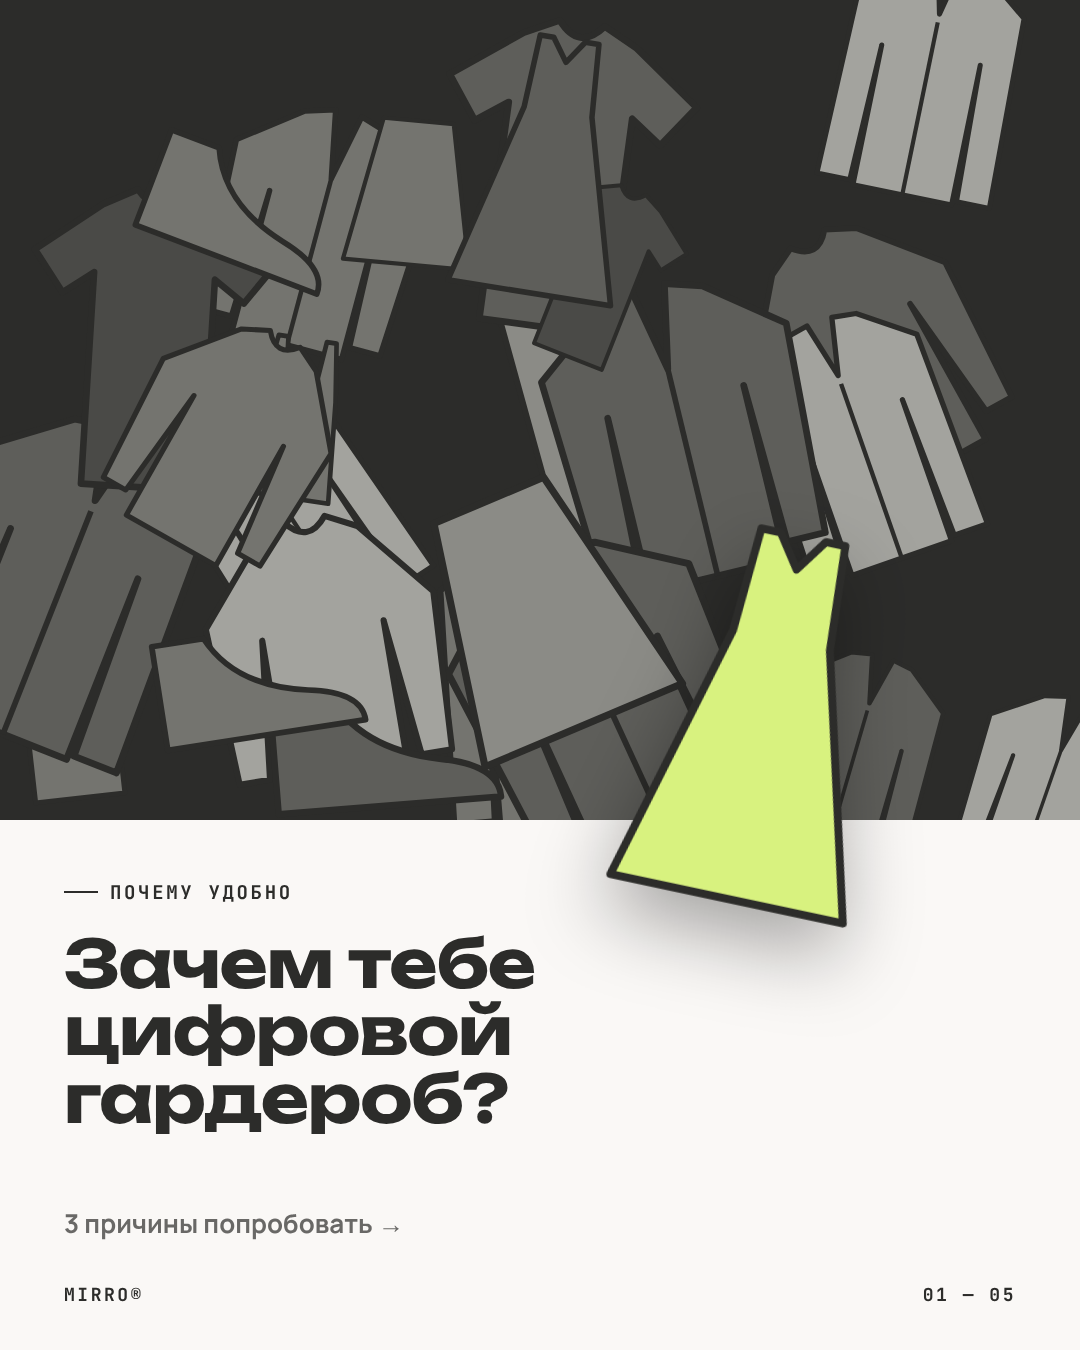
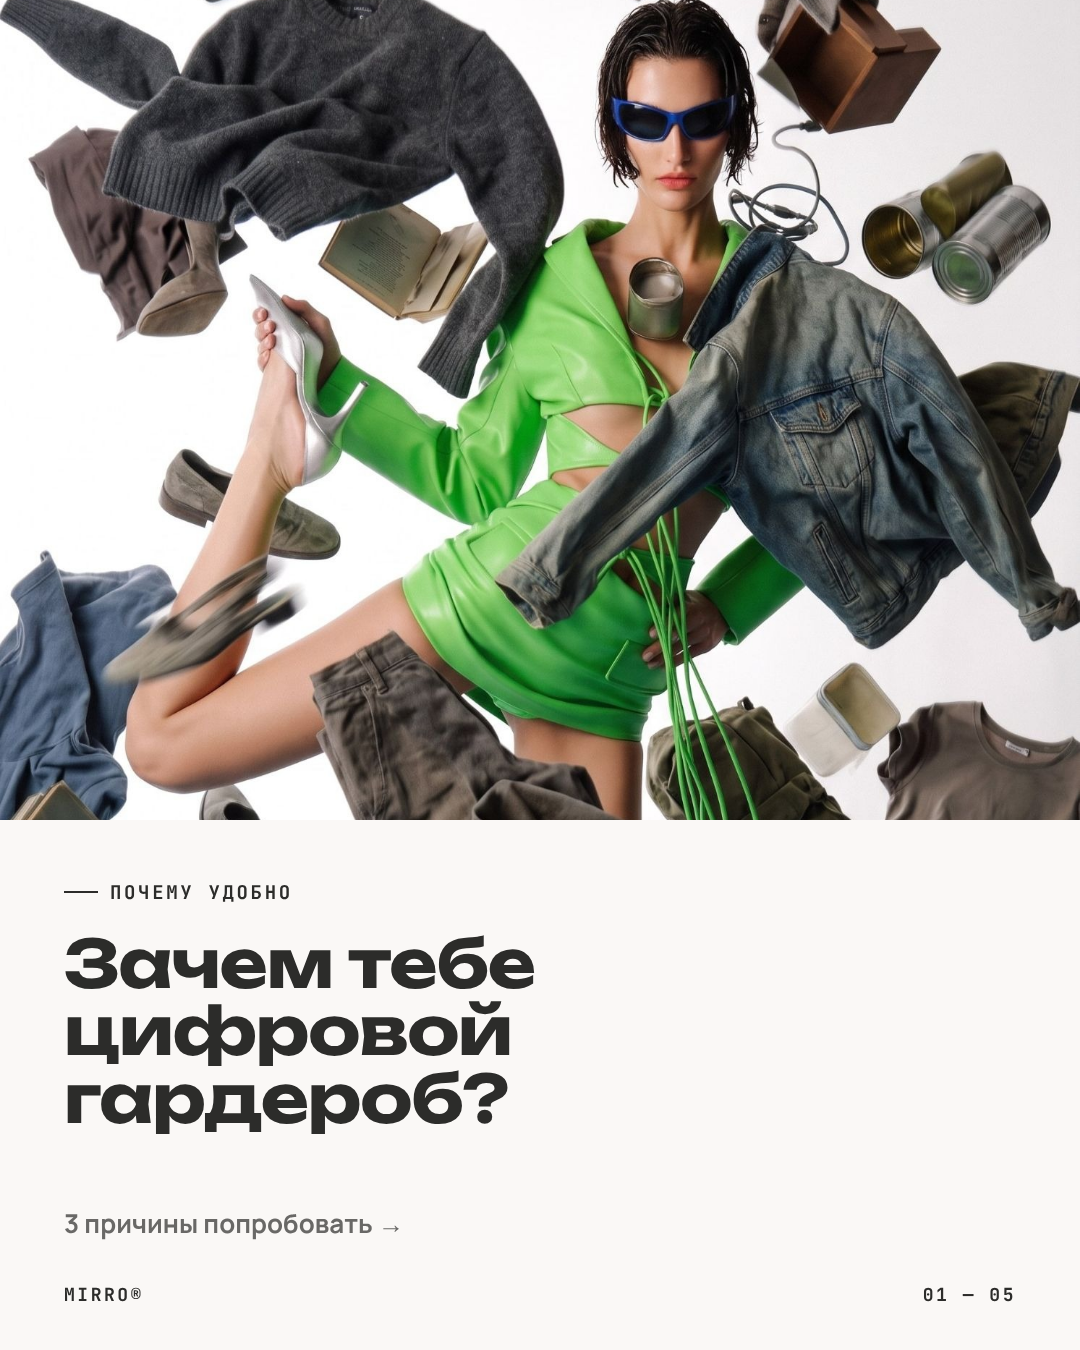
Карусель 3: фото на слайдах 1 и 2
Claude-Session: https://claude.ai/code/session_01V1NUh11xrVMcB1cs4GV2qz

diff --git a/carousels/03-why-convenient/02.html b/carousels/03-why-convenient/02.html
@@ -7,25 +7,28 @@
   <link rel="stylesheet" href="style.css">
   <style>
     .order { background: var(--lime); }
-    .outfits { position: absolute; left: 64px; top: 250px; display: flex; gap: 40px; }
-    .outfit { width: 180px; padding: 22px 10px 18px; background: var(--cream); border-radius: 22px; }
+    .outfits { position: absolute; left: 64px; right: 64px; top: 220px; display: flex; gap: 24px; }
+    .look { position: relative; flex: 1; height: 400px; border-radius: 22px; overflow: hidden; background: #fff; }
+    .look img { width: 100%; height: 100%; object-fit: cover; object-position: 50% 0; display: block; }
+    .look span { position: absolute; left: 14px; bottom: 14px; font-family: var(--font-mono); font-size: 17px; font-weight: 700; letter-spacing: .12em; text-transform: uppercase; background: var(--dark); color: var(--cream); padding: 7px 12px; border-radius: 8px; }
   </style>
 </head>
 <body>
   <div class="slide">
     <div class="half chaos">
-      <div class="pile" data-n="22" data-seed="5" data-size="200" data-tones="#4a4a47,#5e5e5a,#74746f,#8b8b86,#a3a39e" style="left:380px; top:20px; width:760px; height:640px;"></div>
+      <img src="img/closet-mess.jpg" alt="" style="position:absolute; inset:0; width:100%; height:100%; object-fit:cover; object-position:50% 62%;">
+      <div style="position:absolute; inset:0; background:linear-gradient(90deg, rgba(44,44,42,.92) 0%, rgba(44,44,42,.55) 48%, rgba(44,44,42,.1) 75%);"></div>
       <div class="lbl" style="left:64px; top:70px; color: var(--lime);">Проблема 01</div>
-      <div class="head" style="left:64px; top:120px; width:470px; text-shadow: 0 2px 30px #2C2C2A;">Шкаф полный — надеть нечего</div>
+      <div class="head" style="left:64px; top:120px; width:470px; ">Шкаф полный — надеть нечего</div>
     </div>
     <div class="seam-num">01</div><div class="seam-num low">01</div>
     <div class="half order">
       <div class="lbl" style="left:64px; top:70px;">Решение</div>
       <div class="body" style="left:64px; top:112px; width:600px;">Собирай образы заранее и всегда знай, что носить</div>
       <div class="outfits">
-        <div class="outfit"><i class="g" data-g="top" data-c="#2C2C2A" style="width:110px"></i><i class="g" data-g="trousers" data-c="#FAF8F6" style="width:110px; margin-top:-14px"></i><div class="cap">Офис</div></div>
-        <div class="outfit"><i class="g" data-g="dress" data-c="#B9A8F0" style="width:140px"></i><i class="g" data-g="shoe" data-c="#2C2C2A" style="width:70px; margin-top:-30px"></i><div class="cap">Вечер</div></div>
-        <div class="outfit"><i class="g" data-g="jacket" data-c="#7a2230" style="width:130px"></i><i class="g" data-g="skirt" data-c="#2C2C2A" style="width:100px; margin-top:-20px"></i><div class="cap">Выходные</div></div>
+        <div class="look"><img src="img/look-green.jpg" alt=""><span>Вечер</span></div>
+        <div class="look"><img src="img/look-red.jpg" alt=""><span>Свидание</span></div>
+        <div class="look"><img src="img/look-leather.jpg" alt=""><span>Выходные</span></div>
       </div>
     </div>
     <div class="foot" style="color: var(--dark);"><span>MIRRO®</span><span>02 — 05</span></div>

diff --git a/carousels/03-why-convenient/01.html b/carousels/03-why-convenient/01.html
@@ -8,18 +8,16 @@
   <style>
     .chaos { height: 820px; }
     .order { top: 820px; background: var(--cream); }
-    .pulled { left: 600px; top: 520px; width: 330px; --r: 12deg; z-index: 5; filter: drop-shadow(0 30px 40px rgba(0,0,0,.35)); }
   </style>
 </head>
 <body>
   <div class="slide">
     <div class="half chaos">
-      <div class="pile" data-n="26" data-seed="11" data-size="230" data-tones="#4a4a47,#5e5e5a,#74746f,#8b8b86,#a3a39e" data-stroke="#2C2C2A" style="left:-40px; top:-30px; width:1160px; height:880px;"></div>
+      <img src="img/cover-chaos.jpg" alt="" style="width:100%; height:100%; object-fit:cover; object-position:50% 22%;">
     </div>
-    <i class="g pulled" data-g="dress" data-c="#D8F27F"></i>
     <div class="half order">
       <div class="lbl" style="left:64px; top:60px;">Почему удобно</div>
-      <div class="head" style="left:64px; top:110px; width:560px; font-size:66px;">Зачем тебе цифровой гардероб?</div>
+      <div class="head" style="left:64px; top:110px; width:700px; font-size:66px;">Зачем тебе цифровой гардероб?</div>
       <div class="body" style="left:64px; bottom:110px; font-size:26px; opacity:.7;">3 причины попробовать →</div>
     </div>
     <div class="foot" style="color: var(--dark);"><span>MIRRO®</span><span>01 — 05</span></div>
